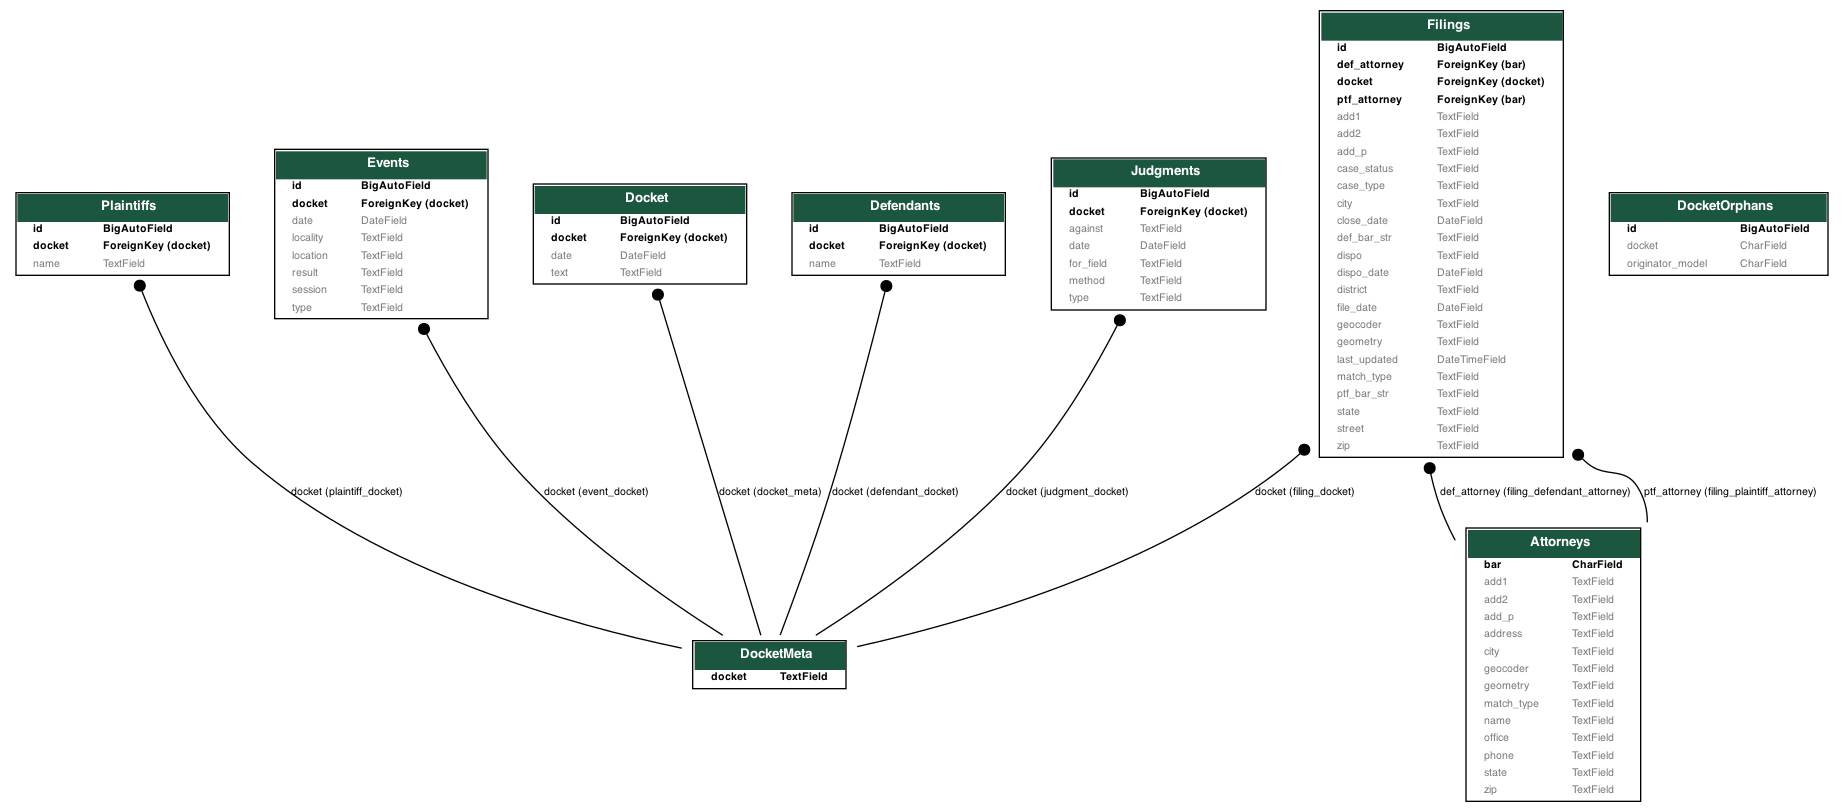
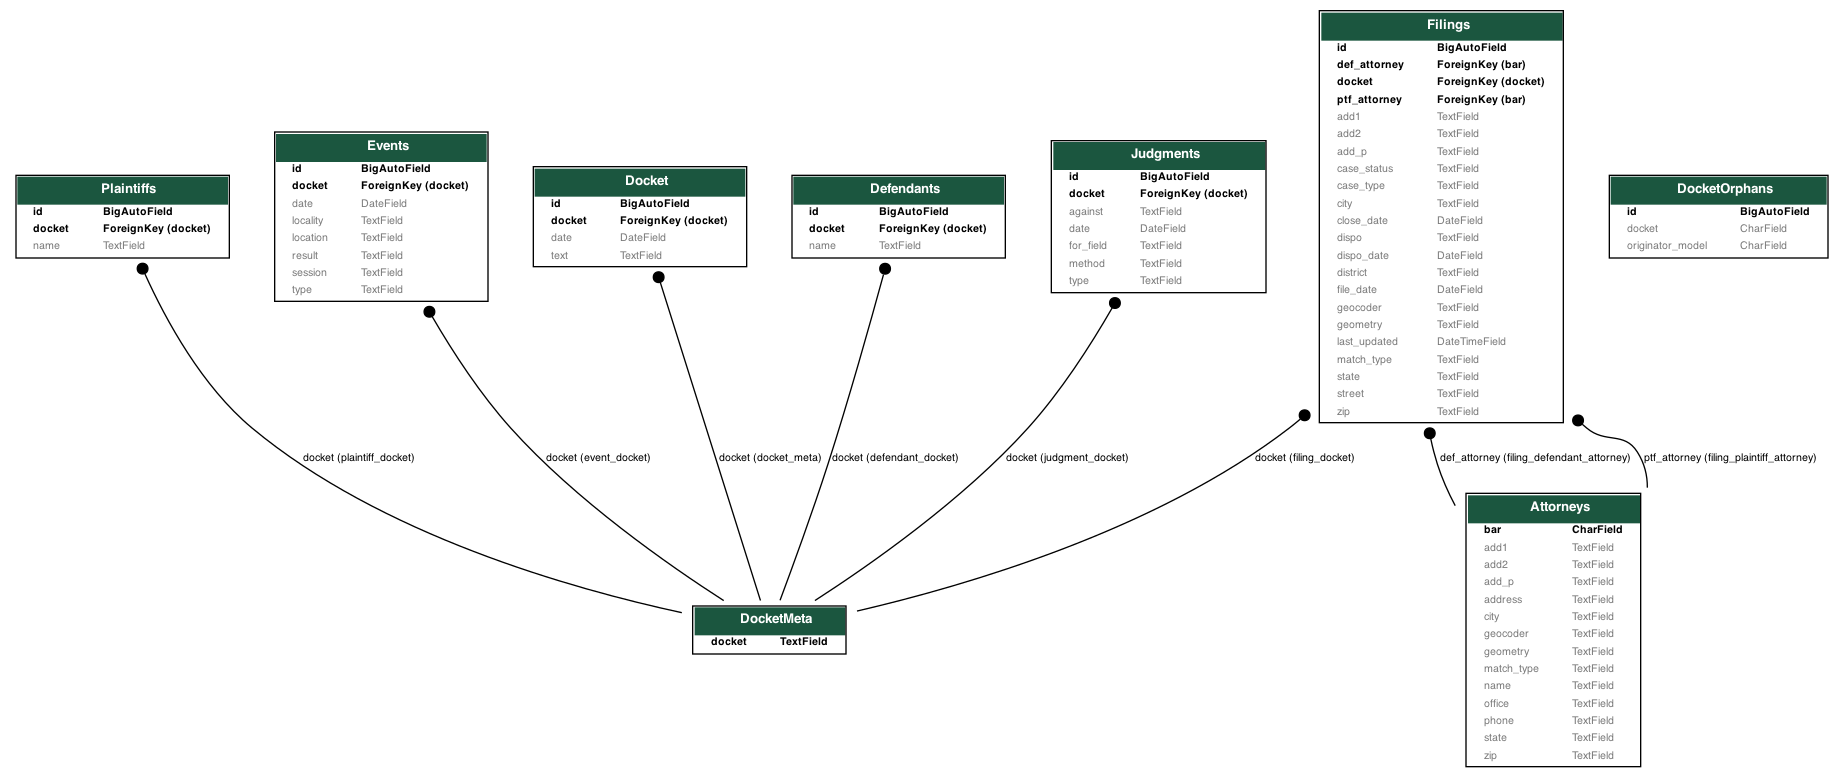
remove - extra bar fields, update schema

diff --git a/mass_evictions/models.py b/mass_evictions/models.py
@@ -106,8 +106,6 @@ class Filings(models.Model):
     file_date = models.DateField(blank=True, null=True)
     case_status = models.TextField(blank=True, null=True)
     close_date = models.DateField(blank=True, null=True)
-    ptf_bar_str = models.TextField(blank=True, null=True)
-    def_bar_str = models.TextField(blank=True, null=True)
     ptf_attorney = models.ForeignKey(Attorneys, null=True, on_delete=models.DO_NOTHING, related_name='filing_plaintiff_attorney')
     def_attorney = models.ForeignKey(Attorneys, null=True, on_delete=models.DO_NOTHING, related_name='filing_defendant_attorney')
     dispo = models.TextField(blank=True, null=True)

diff --git a/mass_evictions/migrations/0008_remove_filings_def_bar_str_and_more.py b/mass_evictions/migrations/0008_remove_filings_def_bar_str_and_more.py
@@ -1,0 +1,21 @@
+# Generated by Django 4.1.5 on 2023-02-01 21:09
+
+from django.db import migrations
+
+
+class Migration(migrations.Migration):
+
+    dependencies = [
+        ('mass_evictions', '0007_filings_def_attorney_filings_ptf_attorney'),
+    ]
+
+    operations = [
+        migrations.RemoveField(
+            model_name='filings',
+            name='def_bar_str',
+        ),
+        migrations.RemoveField(
+            model_name='filings',
+            name='ptf_bar_str',
+        ),
+    ]
